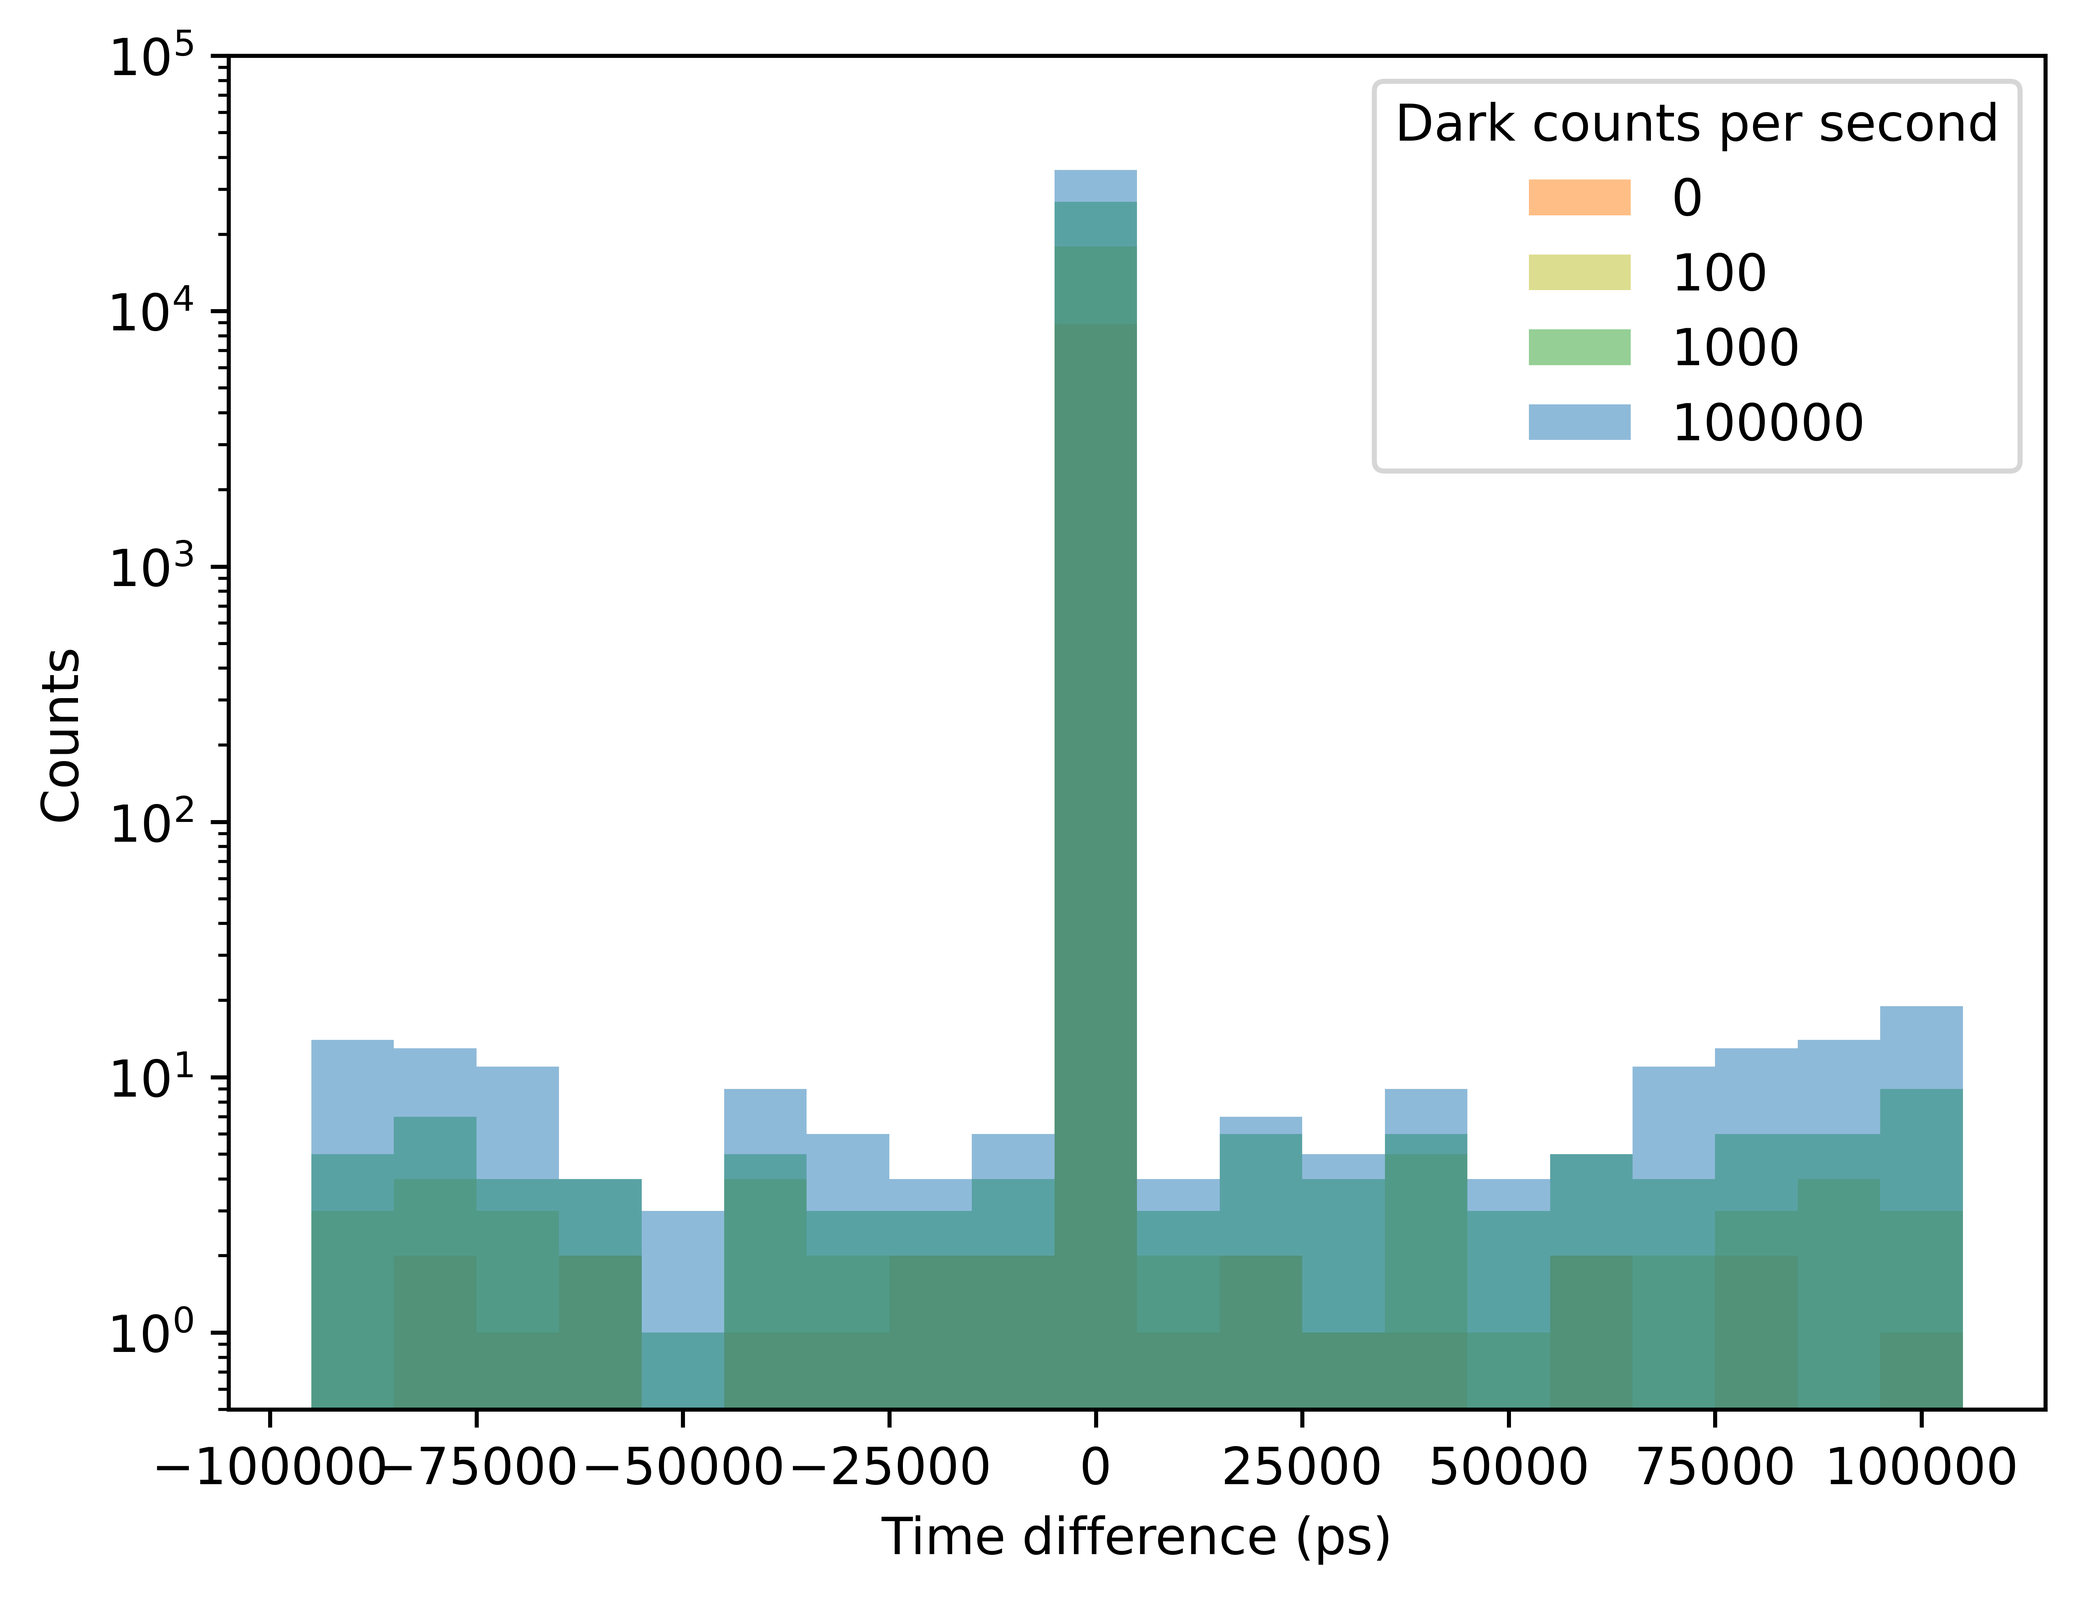
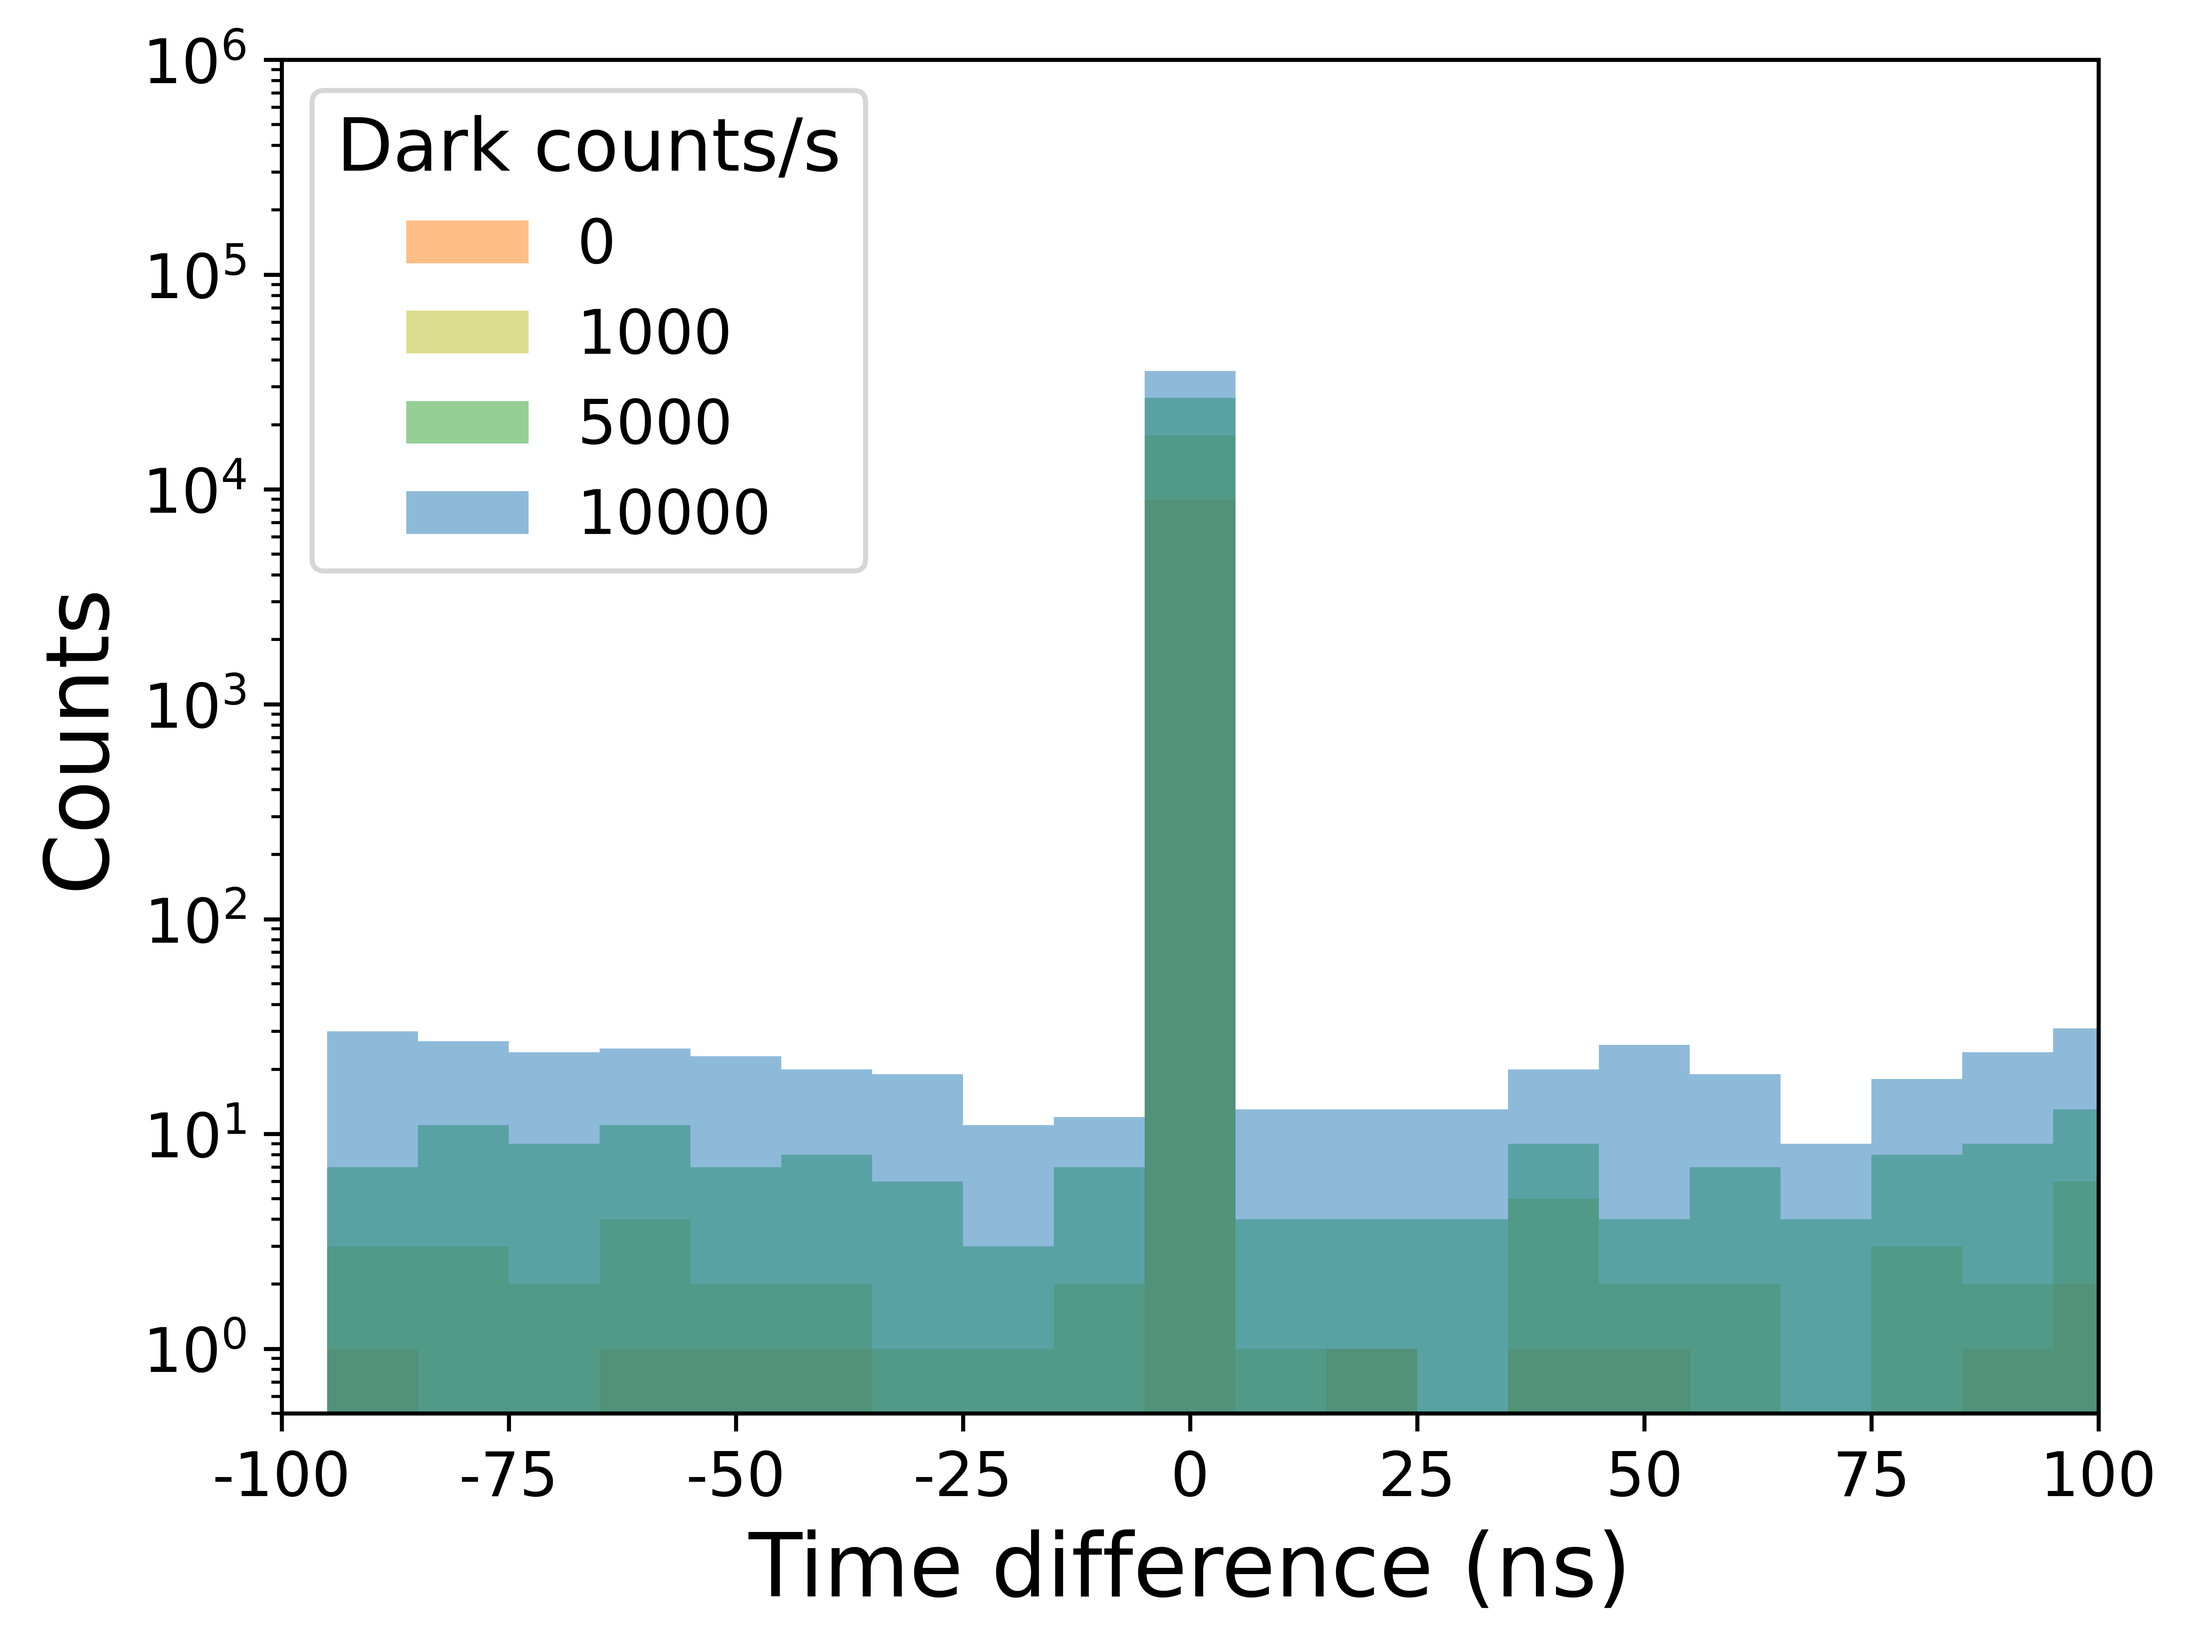
fixed xticks for g2 graphs

Changed region(s): [[0.0623, 0.0933, 0.9965, 0.9957], [0.0, 0.0, 0.4048, 0.5912], [0.6539, 0.0311, 0.9965, 0.3111]]

diff --git a/simulations_with_practical_issues/plot.py b/simulations_with_practical_issues/plot.py
@@ -46,10 +46,16 @@ def plot_g2_ambient(yaml_fn, ambient, colors=None, savefig=True):
     plt.legend(title='Ambient light counts per second', title_fontsize='x-large', fontsize='large', loc=2)
     plt.xlabel('Time difference (ns)', fontsize='xx-large')
     plt.ylabel('Counts', fontsize='xx-large')
-    plt.xticks(fontsize='large')
-    plt.yticks(fontsize='large')
     plt.yscale('log')
     plt.ylim(0.5, 10**math.ceil(math.log10(max_max) + 0.5))
+    plt.xlim(-sim.range_ps / 2, sim.range_ps / 2)
+
+    ticks_ps = plt.xticks()[0]
+    ticks_ns = np.zeros(ticks_ps.shape, np.int64)
+    for i in range(len(ticks_ps)):
+        ticks_ns[i] = int(ticks_ps[i] / 1000)
+    plt.xticks(ticks_ps, ticks_ns, fontsize='large')
+    plt.yticks(fontsize='large')
 
     if savefig:
         title = 'plots\\g2\\g2_vs_ambientlight\\' + \
@@ -99,13 +105,19 @@ def plot_g2_darkcounts(yaml_fn, dc, colors=None, savefig=True):
 
             bar()
 
-    plt.legend(title='Dark counts per second', title_fontsize='x-large', fontsize='large', loc=2)
+    plt.legend(title='Dark counts/s', title_fontsize='x-large', fontsize='large', loc=2)
     plt.xlabel('Time difference (ns)', fontsize='xx-large')
     plt.ylabel('Counts', fontsize='xx-large')
-    plt.xticks(fontsize='large')
-    plt.yticks(fontsize='large')
     plt.yscale('log')
     plt.ylim(0.5, 10**math.ceil(math.log10(max_max) + 0.5))
+    plt.xlim(-sim.range_ps/2, sim.range_ps/2)
+
+    ticks_ps = plt.xticks()[0]
+    ticks_ns = np.zeros(ticks_ps.shape, np.int64)
+    for i in range(len(ticks_ps)):
+        ticks_ns[i] = int(ticks_ps[i] / 1000)
+    plt.xticks(ticks_ps, ticks_ns, fontsize='large')
+    plt.yticks(fontsize='large')
 
     if savefig:
         title = 'plots\\g2\\g2_vs_darkcounts\\' + \
@@ -159,10 +171,16 @@ def plot_g2_deadtime(yaml_fn, deadtime, colors=None, savefig=True):
     plt.legend(title='Dead time (ps)', title_fontsize='x-large', fontsize='large', loc=2)
     plt.xlabel('Time difference (ns)', fontsize='xx-large')
     plt.ylabel('Counts', fontsize='xx-large')
-    plt.xticks(fontsize='large')
-    plt.yticks(fontsize='large')
     plt.yscale('log')
     plt.ylim(0.5, 10 ** math.ceil(math.log10(sim.coincidences) + 0.5))
+    plt.xlim(-sim.range_ps / 2, sim.range_ps / 2)
+
+    ticks_ps = plt.xticks()[0]
+    ticks_ns = np.zeros(ticks_ps.shape, np.int64)
+    for i in range(len(ticks_ps)):
+        ticks_ns[i] = int(ticks_ps[i] / 1000)
+    plt.xticks(ticks_ps, ticks_ns, fontsize='large')
+    plt.yticks(fontsize='large')
 
     if savefig:
         title = 'plots\\g2\\g2_vs_deadtime\\' + \
@@ -237,18 +255,18 @@ def plot_g2_jitter(yaml_fn, jitter, colors=None, fwhm=False, savefig=True):
                         plt.text(r_lim, half_max, str(int(r_lim - l_lim)), color=colors[i], fontsize='large')
             bar()
 
-    plt.legend(title='Jitter FWHM', title_fontsize='x-large', fontsize='large', loc=2)
     plt.xlabel('Time difference (ns)', fontsize='xx-large')
     plt.ylabel('Counts', fontsize='xx-large')
-    plt.xticks(ticks_ps, ticks_ns, fontsize='large')
-    plt.yticks(fontsize='large')
-    plt.xlim(-20000, 20000)
+    plt.legend(title='Jitter FWHM', title_fontsize='x-large', fontsize='large', loc=2)
+    plt.xlim(-sim.range_ps / 2, sim.range_ps / 2)
     plt.yscale('log')
     plt.ylim(10)
     ticks_ps = plt.xticks()[0]
     ticks_ns = np.zeros(ticks_ps.shape, np.int64)
     for i in range(len(ticks_ps)):
         ticks_ns[i] = int(ticks_ps[i] / 1000)
+    plt.xticks(ticks_ps, ticks_ns, fontsize='large')
+    plt.yticks(fontsize='large')
 
     if fwhm:
         fwhm_str = '_fwhm'
@@ -313,10 +331,16 @@ def plot_g2_loss(yaml_fn, loss, colors=None, savefig=True):
     plt.legend(title='Optical Loss (dB)', title_fontsize='x-large', fontsize='large', loc=2)
     plt.xlabel('Time difference (ns)', fontsize='xx-large')
     plt.ylabel('Counts', fontsize='xx-large')
-    plt.xticks(fontsize='large')
-    plt.yticks(fontsize='large')
     plt.yscale('log')
     plt.ylim(0.5, 10**math.ceil(math.log10(max_max) + 0.5))
+    plt.xlim(-sim.range_ps / 2, sim.range_ps / 2)
+
+    ticks_ps = plt.xticks()[0]
+    ticks_ns = np.zeros(ticks_ps.shape, np.int64)
+    for i in range(len(ticks_ps)):
+        ticks_ns[i] = int(ticks_ps[i] / 1000)
+    plt.xticks(ticks_ps, ticks_ns, fontsize='large')
+    plt.yticks(fontsize='large')
 
     if savefig:
         title = 'plots\\g2\\g2_vs_loss\\' + \
@@ -889,8 +913,8 @@ def plot_visibility_phasediff(yaml_fn, start, stop, num_points, rotations=50, sa
 if __name__ == '__main__':
 
     # plot_g2_ambient('config.yaml', [0, 100, 1000, 100000], ['C1', 'C8', 'C2', 'C0'])
-    # plot_g2_darkcounts('config.yaml', [0, 100, 1000, 100000], ['C1', 'C8', 'C2', 'C0'])
-    # plot_g2_deadtime('config.yaml', [0, 25000, 50000, 75000], ['C1', 'C8', 'C2', 'C0'])
+    # plot_g2_darkcounts('config.yaml', [0, 1000, 5000, 10000], ['C1', 'C8', 'C2', 'C0'])
+    plot_g2_deadtime('config.yaml', [0, 25000, 50000, 75000], ['C1', 'C8', 'C2', 'C0'], savefig=False)
     # plot_g2_jitter('config.yaml', [0, 2000, 10000, 100000, 1000000], ['C3', 'C1', 'C2', 'C0', 'C4'], fwhm=True)
     # plot_g2_loss('config.yaml', [0, 1, 3, 6, 10], ['C3', 'C1', 'C8', 'C2', 'C0', 'C4'])
 
@@ -898,7 +922,7 @@ if __name__ == '__main__':
     # plot_car_darkcounts('config.yaml', 0, 1000000, 1024)
     # plot_car_deadtime('config.yaml', 0, 1000000, 64)
     # plot_car_jitter('config.yaml', 0, 10000, 256)
-    plot_car_loss('config.yaml', 0, 60, 256, theoretical=True, savefig=False)
+    # plot_car_loss('config.yaml', 0, 60, 1024, theoretical=True, savefig=True)
 
     d = .25
     qubit_state = [1 / math.sqrt(2), 0, 0, np.exp(1j * d) / math.sqrt(2)]

diff --git a/simulations_with_practical_issues/Simulator.py b/simulations_with_practical_issues/Simulator.py
@@ -38,7 +38,6 @@ def modify_timestamps(in_timestamps, out_timestamps, yaml_fn):
     ambient_light = dicty['ambient_light']
     dead_time = dicty['dead_time']
     jitter = dicty['jitter']
-    test = []
     # optical loss
     for x in signal:
         if random.random() < loss_signal:
